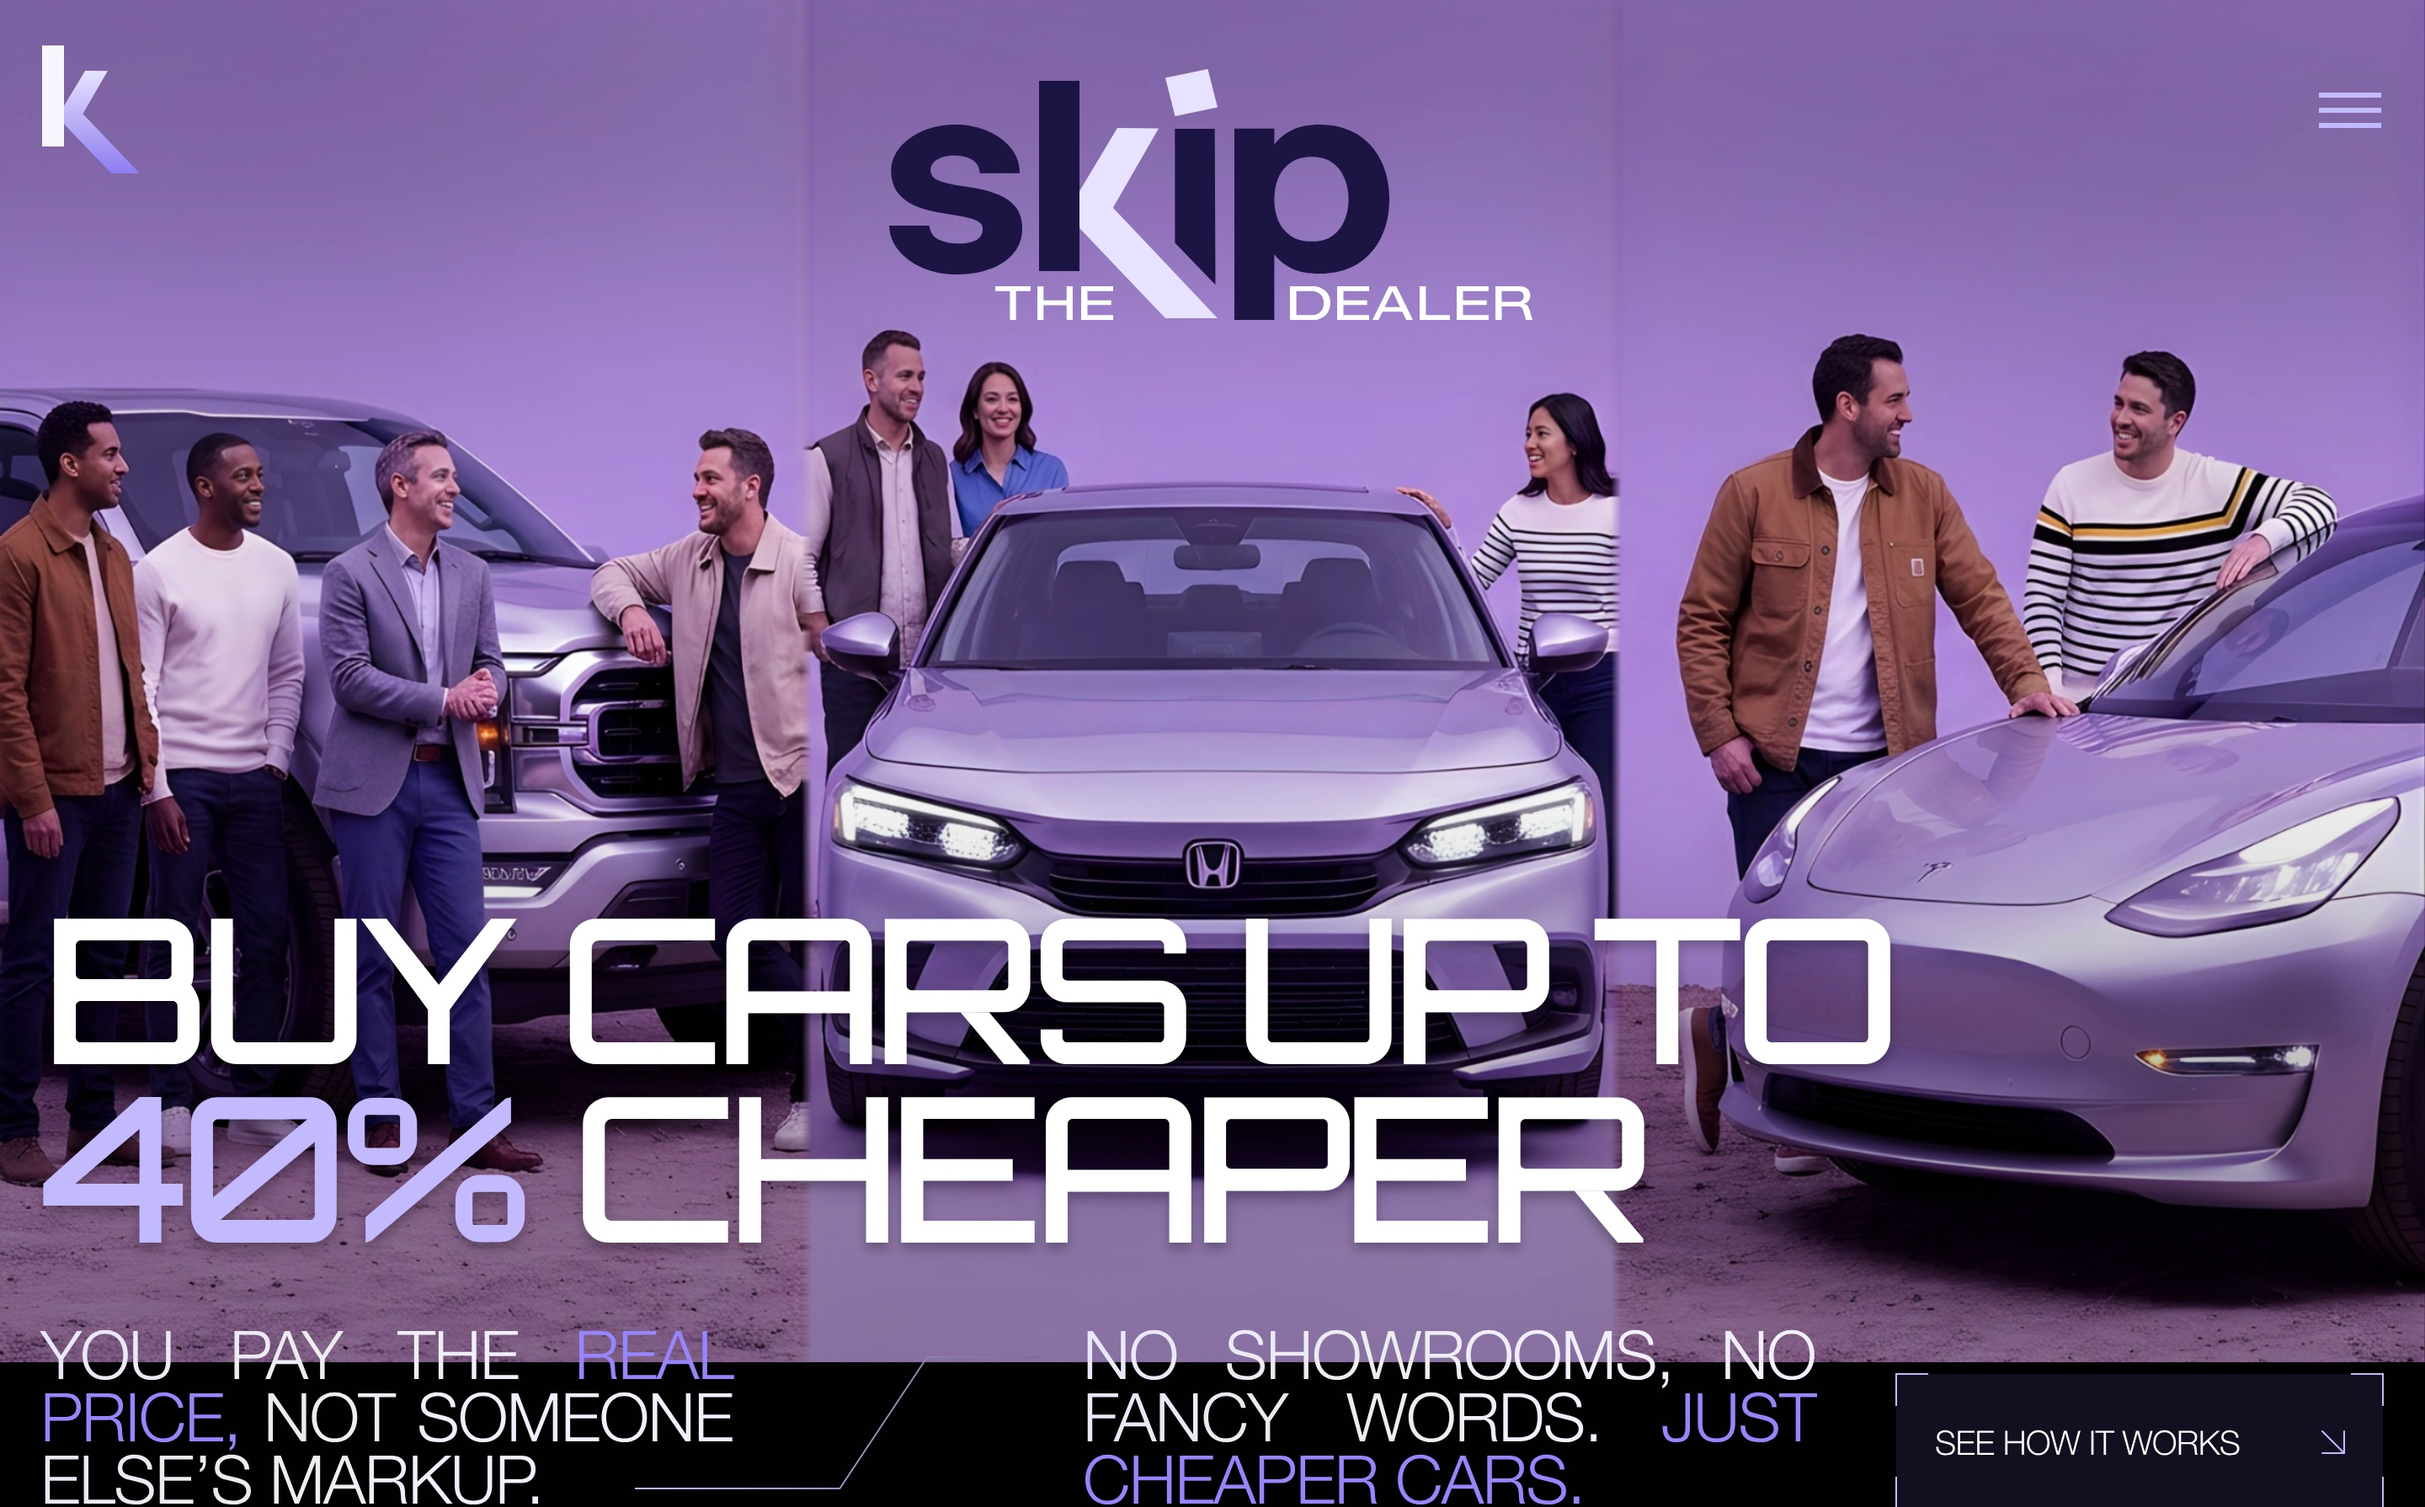
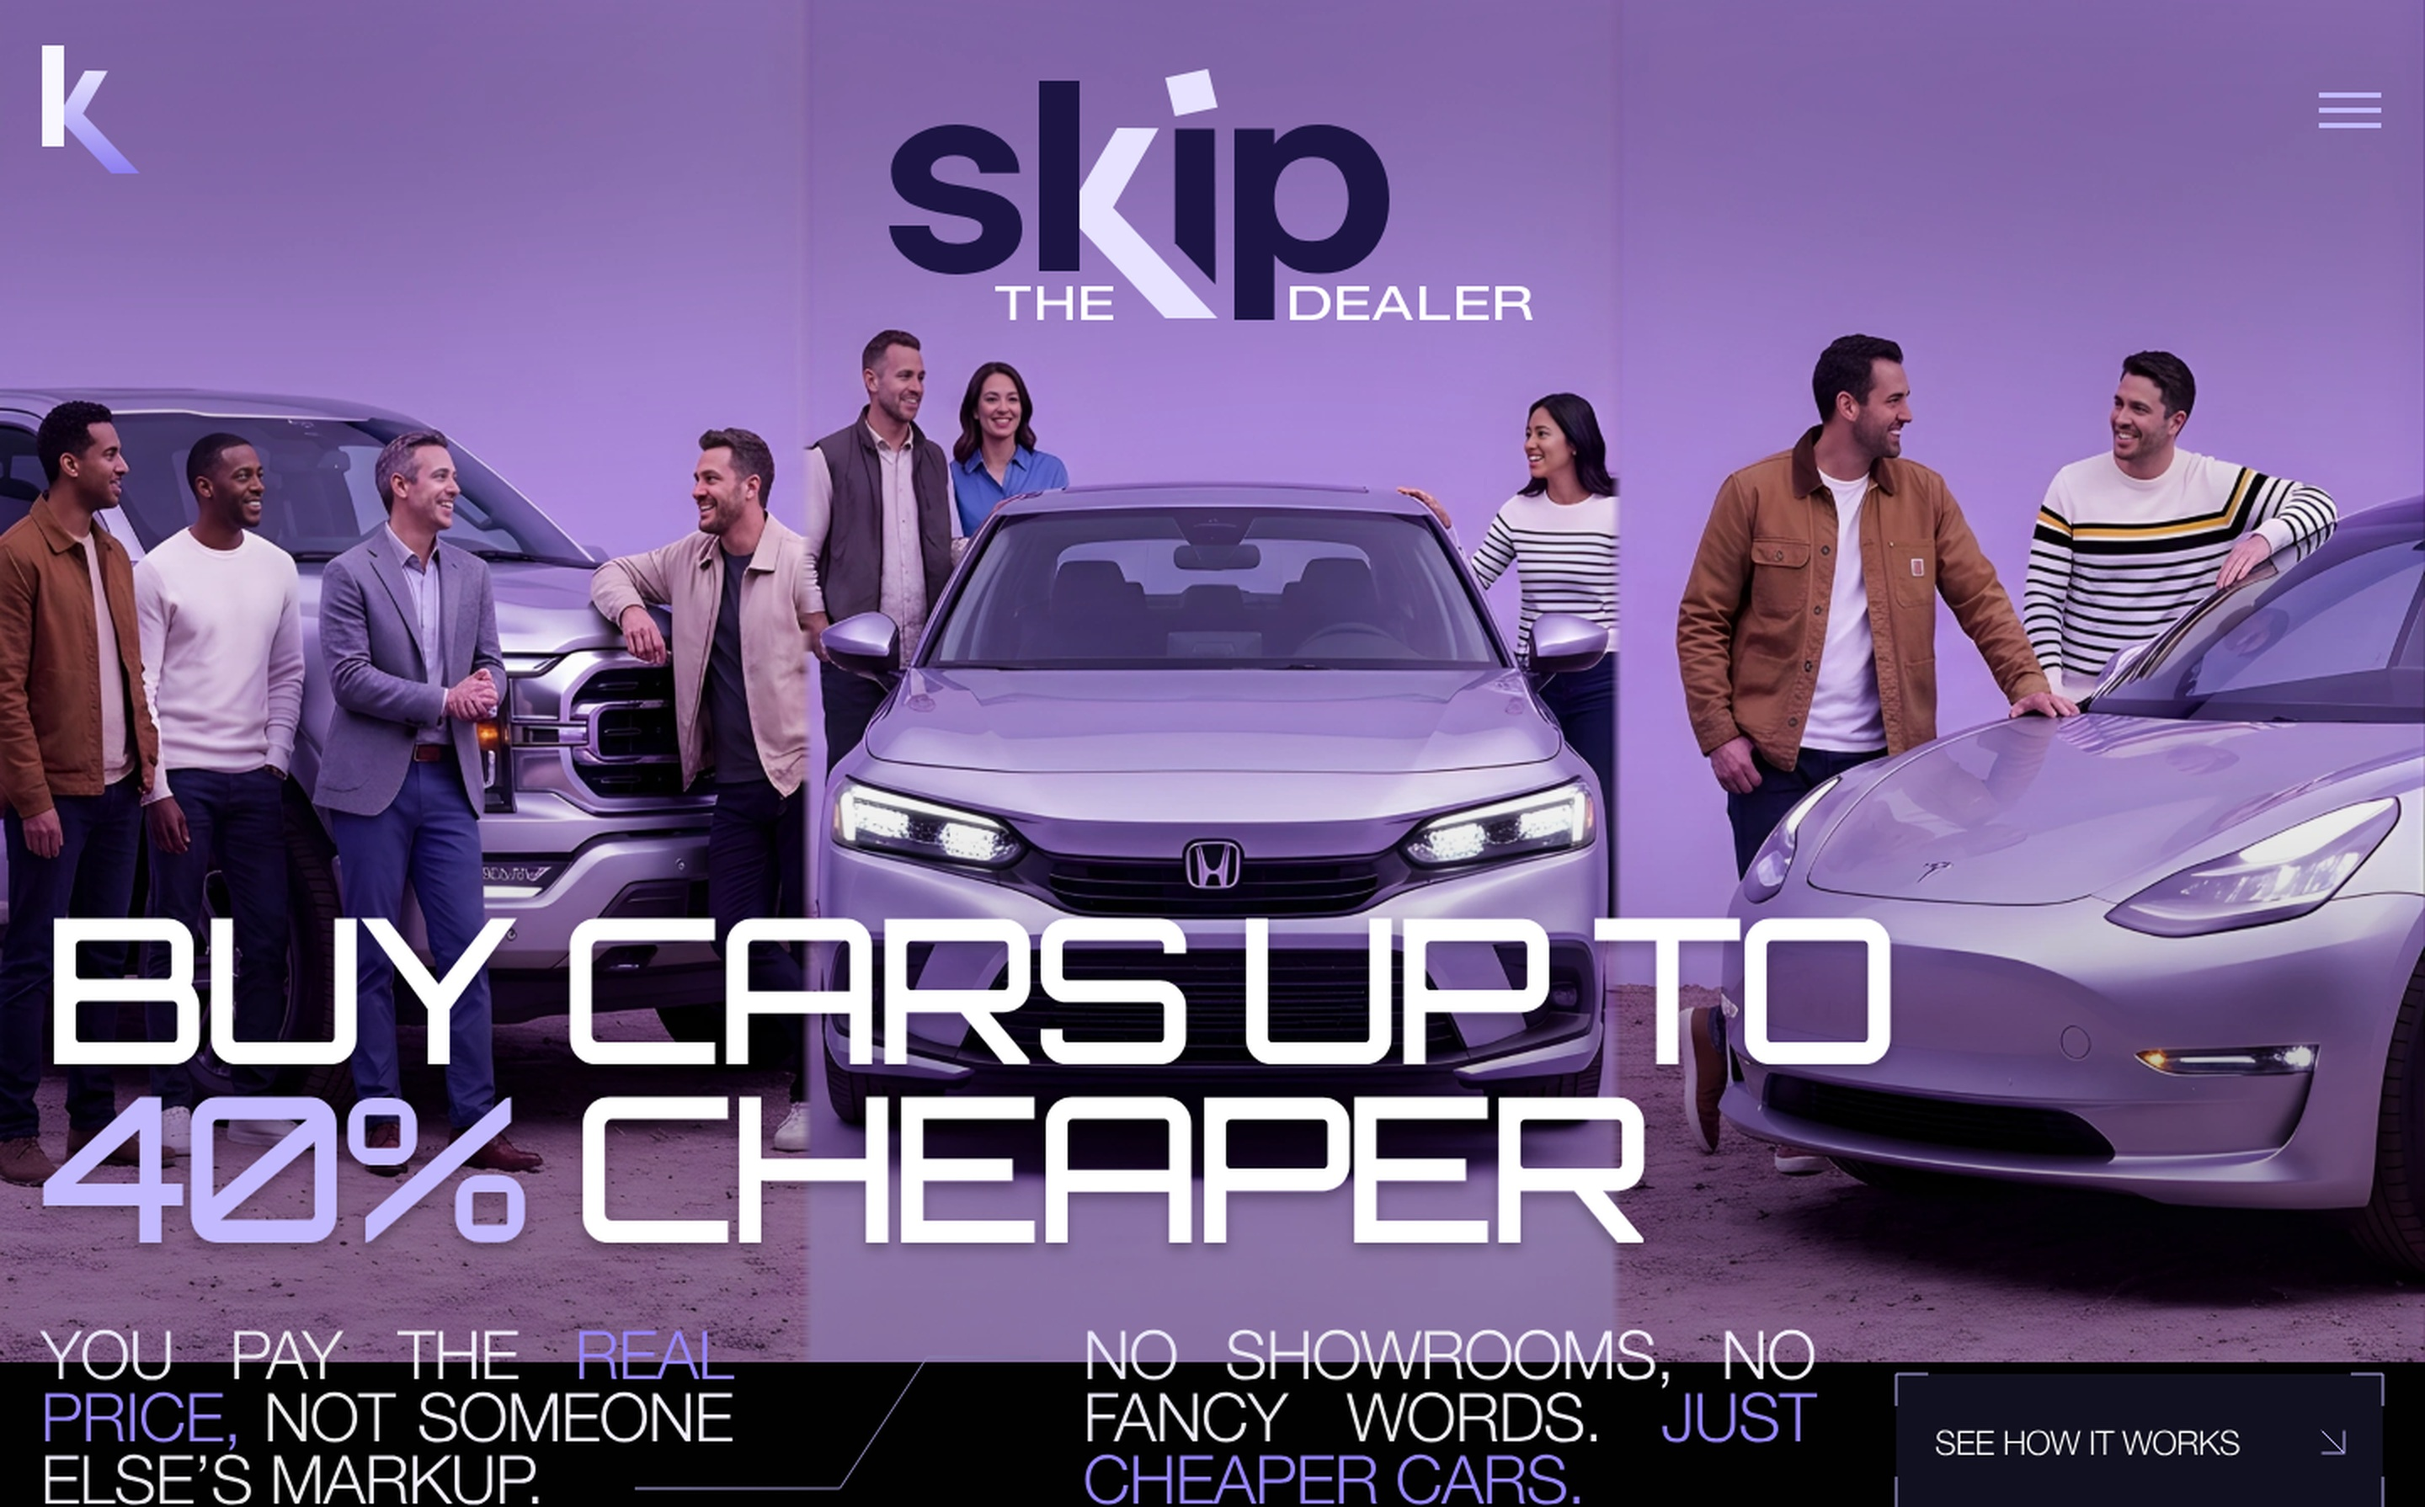
Hero to page: fade into black as in Figma. Measured from the original export the artwork does not end abruptly - below it the tone falls 16 -> 9 -> 3 -> 0 over 105px (7.3% of the 1440 width). Added that strip as its own block between the hero and the body, so it cannot touch the CTA or the copy

diff --git a/assets/css/page-dealer-hero.css b/assets/css/page-dealer-hero.css
@@ -25,9 +25,11 @@ html, body {
   width: 100%;
   overflow: hidden;
   box-sizing: border-box;
-  background: #241838;
+  background: #020202;
   line-height: 0;
 }
+
+
 
 .dh__frame {
   position: relative;
@@ -49,6 +51,25 @@ html, body {
 .dh__stage > * { pointer-events: auto; }
 
 .dh__hit, .dh__burger { position: absolute; }
+
+
+/* ── перехід герой → контент (як у Figma) ─────────────────────────────── */
+/* У макеті кадр не обривається: одразу під ним іде смуга, що плавно згасає
+   у чорний (замір: y900=16, y930=9, y960=3, y1000=0 при ширині 1440).
+   Це окремий блок, а не накладка на кадр — тому він не торкається ні CTA,
+   ні опису. Висота = 7.3% ширини, тобто масштабується разом із кадром. */
+.dh__fade {
+  position: relative;
+  width: 100%;
+  aspect-ratio: 1440 / 105;
+  background: linear-gradient(to bottom,
+      #040407 0%,
+      rgba(4,4,7,.86) 18%,
+      rgba(3,3,5,.62) 38%,
+      rgba(2,2,3,.38) 58%,
+      rgba(2,2,2,.16) 78%,
+      #020202 100%);
+}
 
 /* hitareas: percentages of the 1440x895 artboard */
 .dh__hit {

diff --git a/skipthedealer-extended.html b/skipthedealer-extended.html
@@ -9,7 +9,7 @@
   <link rel="preload" href="assets/fonts/Orbitron-Variable.woff2" as="font" type="font/woff2" crossorigin>
   <link rel="preload" href="assets/fonts/HelveticaNeue-light.woff2" as="font" type="font/woff2" crossorigin>
   <link rel="stylesheet" href="assets/css/site1.css">
-  <link rel="stylesheet" href="assets/css/page-dealer-hero.css?v=20261115_1">
+  <link rel="stylesheet" href="assets/css/page-dealer-hero.css?v=20261116_1">
 </head>
 <body class="page-dealer-hero" id="top">
 
@@ -67,6 +67,8 @@
   </nav>
 </section>
 
+<div class="dh__fade" aria-hidden="true"></div>
+
 <div class="db">
   <div class="db__board db__board--desktop">
     <img src="assets/img/site1/skipthedealer-body.svg" class="db__svg" alt="SkipTheDealer catalog, standards and contact" loading="lazy">
@@ -103,6 +105,6 @@
   </div>
 </div>
 
-<script src="assets/js/page-dealer-hero.js?v=20261115_1"></script>
+<script src="assets/js/page-dealer-hero.js?v=20261116_1"></script>
 </body>
 </html>

diff --git a/skipthedealer.html b/skipthedealer.html
@@ -9,7 +9,7 @@
   <link rel="preload" href="assets/fonts/Orbitron-Variable.woff2" as="font" type="font/woff2" crossorigin>
   <link rel="preload" href="assets/fonts/HelveticaNeue-light.woff2" as="font" type="font/woff2" crossorigin>
   <link rel="stylesheet" href="assets/css/site1.css">
-  <link rel="stylesheet" href="assets/css/page-dealer-hero.css?v=20261115_1">
+  <link rel="stylesheet" href="assets/css/page-dealer-hero.css?v=20261116_1">
 </head>
 <body class="page-dealer-hero" id="top">
 
@@ -67,6 +67,8 @@
   </nav>
 </section>
 
+<div class="dh__fade" aria-hidden="true"></div>
+
 <div class="db">
   <div class="db__board db__board--desktop">
     <img src="assets/img/site1/skipthedealer-body.svg" class="db__svg" alt="SkipTheDealer catalog, standards and contact" loading="lazy">
@@ -103,6 +105,6 @@
   </div>
 </div>
 
-<script src="assets/js/page-dealer-hero.js?v=20261115_1"></script>
+<script src="assets/js/page-dealer-hero.js?v=20261116_1"></script>
 </body>
 </html>
